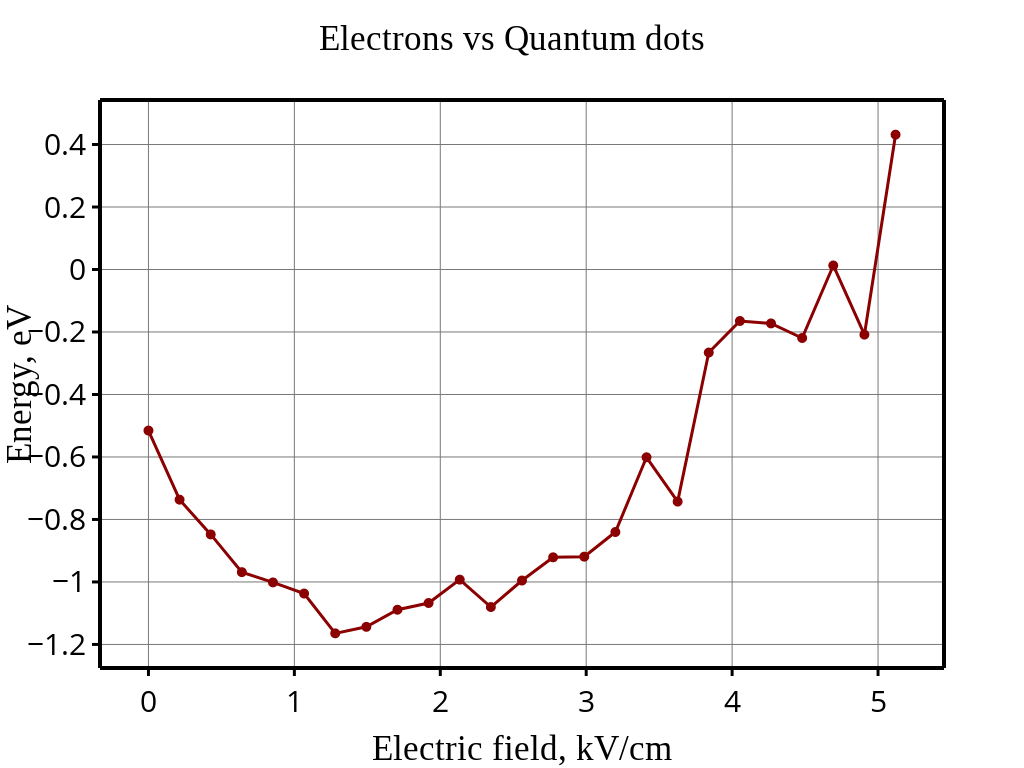
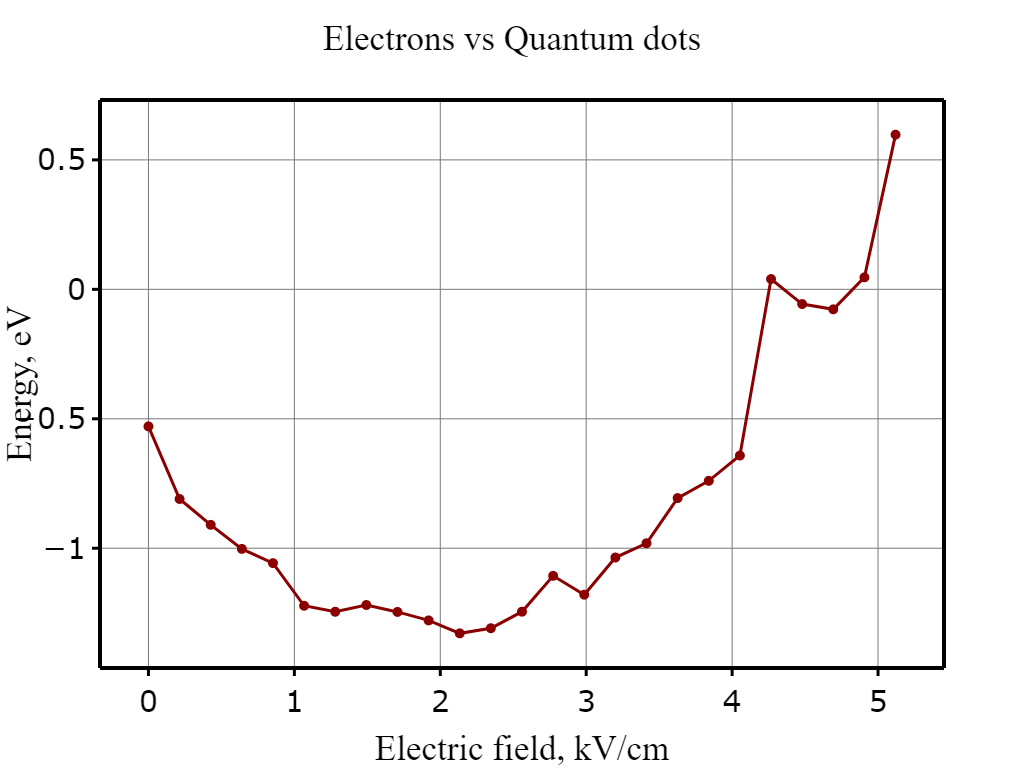
Update Rust version

diff --git a/rust_version/src/main.rs b/rust_version/src/main.rs
@@ -21,7 +21,7 @@ const ELECTRIC_MAX: f64 = -4.0 * U0 / L; // maximum electric field, eV/nm
 const IV_POINTS: usize = 25; // number of points on IV curve
 const MAGNETIC: f64 = 0.0; // magnetic field induction,
 const NQD: usize = 150; // number of quantum dots (nanostructures)
-const DT: f64 = 0.5; // delta_time, fs
+const DT: f64 = 1.0; // delta_time, fs
 const NE: usize = 100; // number of electrons
 const NC1: usize = 10; // number of cells (to sort electtons and QD)
 
@@ -108,6 +108,11 @@ fn main() {
         let mut en_array = [0.0; NE];
         let mut en_av_time = 0.0;
 
+        //file for IV curve data
+        let fl_name = format!("Velocity_distribution_E{:.3}.dat", ee * 1e4);
+        let file_path: PathBuf = [dir_name, &fl_name].iter().collect();
+        let mut my_file_4 = fs::File::create(file_path).expect("Error creating file");
+
         // PARTICLE LOOP
         for je in 0..NE {
             //file for trajectory data for a single electron
@@ -130,7 +135,9 @@ fn main() {
             let mut vx0: f64 = 0.01 * rnvx;
             let mut vy0: f64 = 0.01 * rnvy;
             // total energy (kinetic + potential)
-            let mut energy: f64 = vx0 * vx0 + vy0 * vy0 + 2.0 * CM * U0 * u(x0, y0, &nano_in_cell, &nano_list) - 2.0 * CM * ee * x0;
+            let mut energy: f64 =
+                vx0 * vx0 + vy0 * vy0 + 2.0 * CM * U0 * u(x0, y0, &nano_in_cell, &nano_list)
+                    - 2.0 * CM * ee * x0;
 
             // TIME LOOP
             for jt in 0..NT {
@@ -184,7 +191,9 @@ fn main() {
                 vx0 = vx0 + (rk_vx1 + 2.0 * rk_vx2 + 2.0 * rk_vx3 + rk_vx4) * DT / 6.0;
                 vy0 = vy0 + (rk_vy1 + 2.0 * rk_vy2 + 2.0 * rk_vy3 + rk_vy4) * DT / 6.0;
 
-                energy = vx0 * vx0 + vy0 * vy0 + 2.0 * CM * U0 * u(x0, y0, &nano_in_cell, &nano_list) - 2.0 * CM * ee * x0;
+                energy =
+                    vx0 * vx0 + vy0 * vy0 + 2.0 * CM * U0 * u(x0, y0, &nano_in_cell, &nano_list)
+                        - 2.0 * CM * ee * x0;
 
                 // Periodic boundary conditions
                 if x0 > L {
@@ -209,8 +218,15 @@ fn main() {
             en_array[je] = en_av_time;
         }
 
+        // write data for velocity and energy distributions
+        for je in 0..NE {
+            writeln!(my_file_4, "{} {}", v_array[je], en_array[je])
+                        .expect("Error writing to file");
+        }
+
         // write IV data to file, I is velocity, V is ee
-        writeln!(my_file_3, "{} {} {}", ee, aver(v_array), aver(en_array)).expect("Error writing to file");
+        writeln!(my_file_3, "{} {} {}", ee, aver(v_array), aver(en_array))
+            .expect("Error writing to file");
     }
 
     let elapsed = now.elapsed();
